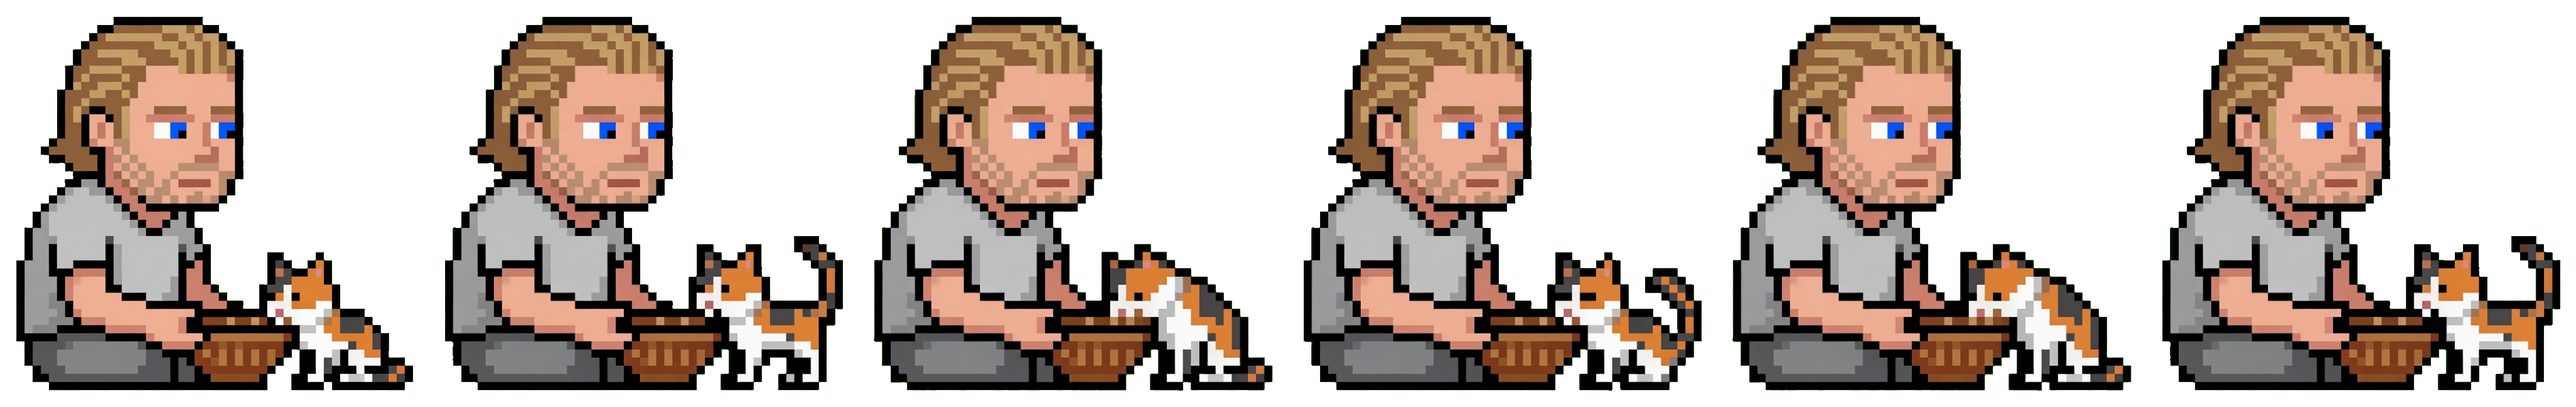
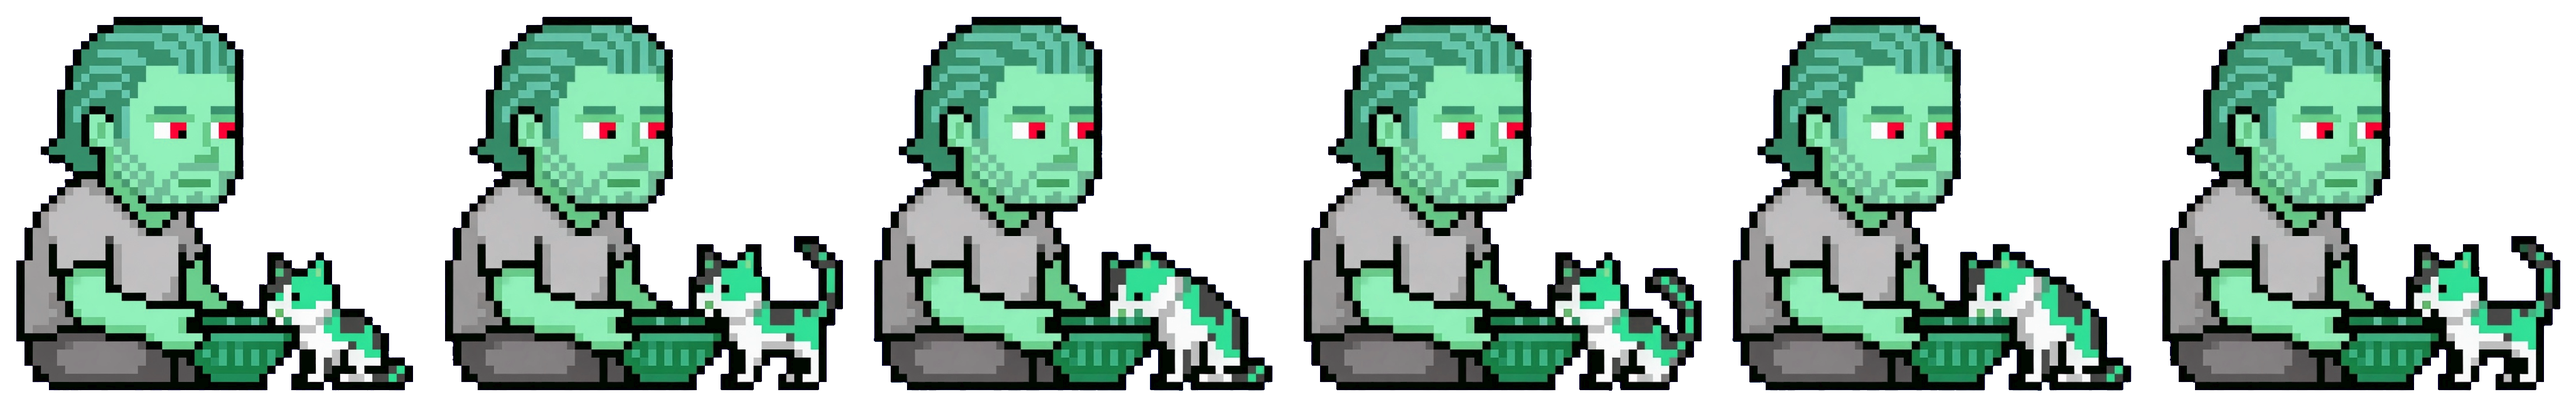
Shift the 1980s theme from red phosphor to Apple II green.
Recolor CRT tokens, scanlines, and pixel plates so 1980s reads as a P1 monitor instead of the old red tube.

diff --git a/app/styles/ancient-retro.css b/app/styles/ancient-retro.css
@@ -41,7 +41,9 @@
 }
 
 :root[data-era="1980s"] h1 {
-  text-shadow: 2px 2px 0 #2a0810;
+  text-shadow:
+    0 0 8px rgba(57, 255, 20, 0.45),
+    2px 2px 0 #031403;
 }
 
 :root[data-era="1980s"] header:not(.resumeHeader) a {
@@ -69,8 +71,8 @@
 
 :root[data-era="1980s"] .circuit-bg {
   background-image:
-    linear-gradient(rgba(255, 34, 68, 0.1) 1px, transparent 1px),
-    linear-gradient(90deg, rgba(255, 34, 68, 0.1) 1px, transparent 1px);
+    linear-gradient(rgba(57, 255, 20, 0.1) 1px, transparent 1px),
+    linear-gradient(90deg, rgba(57, 255, 20, 0.1) 1px, transparent 1px);
   background-size: 12px 12px;
 }
 
@@ -92,16 +94,80 @@
 
 :root[data-era="1980s"] a[class*="bg-primary"] {
   box-shadow:
-    3px 0 0 0 #5a0a18,
-    0 3px 0 0 #5a0a18,
-    3px 3px 0 0 #5a0a18;
+    3px 0 0 0 #0a5a18,
+    0 3px 0 0 #0a5a18,
+    3px 3px 0 0 #0a5a18;
 }
 
 :root[data-era="1980s"] a[class*="border"] {
   box-shadow:
-    2px 0 0 0 #3a2028,
-    0 2px 0 0 #3a2028,
-    2px 2px 0 0 #3a2028;
+    2px 0 0 0 #203a20,
+    0 2px 0 0 #203a20,
+    2px 2px 0 0 #203a20;
+}
+
+:root[data-era="1980s"] .hacf-scanlines::before {
+  background: repeating-linear-gradient(
+    0deg,
+    transparent 0px,
+    transparent 4px,
+    rgba(57, 255, 20, 0.015) 4px,
+    rgba(57, 255, 20, 0.015) 8px
+  );
+}
+
+:root[data-era="1980s"] .hacf-streak::before {
+  background: linear-gradient(
+    90deg,
+    transparent 0%,
+    rgba(57, 255, 20, 0.08) 15%,
+    rgba(57, 255, 20, 0.25) 50%,
+    rgba(57, 255, 20, 0.08) 85%,
+    transparent 100%
+  );
+}
+
+:root[data-era="1980s"] .hacf-streak::after {
+  background: linear-gradient(
+    90deg,
+    transparent 0%,
+    rgba(57, 255, 20, 0.03) 20%,
+    rgba(57, 255, 20, 0.08) 50%,
+    rgba(57, 255, 20, 0.03) 80%,
+    transparent 100%
+  );
+}
+
+:root[data-era="1980s"] .hacf-flare::after {
+  background: radial-gradient(
+    ellipse at center,
+    rgba(57, 255, 20, 0.15) 0%,
+    rgba(57, 255, 20, 0.05) 50%,
+    transparent 80%
+  );
+}
+
+:root[data-era="1980s"] .hacf-sweep-line {
+  background: linear-gradient(
+    90deg,
+    transparent 0%,
+    rgba(57, 255, 20, 0.15) 20%,
+    rgba(156, 255, 74, 0.4) 50%,
+    rgba(57, 255, 20, 0.15) 80%,
+    transparent 100%
+  );
+  box-shadow: 0 0 20px rgba(57, 255, 20, 0.3), 0 0 40px rgba(57, 255, 20, 0.15);
+}
+
+:root[data-era="1980s"] .hacf-sweep-line-2 {
+  background: linear-gradient(
+    90deg,
+    transparent 0%,
+    rgba(57, 255, 20, 0.1) 30%,
+    rgba(57, 255, 20, 0.2) 50%,
+    rgba(57, 255, 20, 0.1) 70%,
+    transparent 100%
+  );
 }
 
 /* 1990s: pixel-art texture, beOS-like bevels, classic web color */

diff --git a/app/styles/era-scroll.css b/app/styles/era-scroll.css
@@ -105,18 +105,18 @@
   z-index: 2;
   opacity: 0.7;
   background-image:
-    radial-gradient(1px 1px at 12% 18%, #8a3844 50%, transparent 51%),
-    radial-gradient(1px 1px at 28% 9%, #5a2430 50%, transparent 51%),
-    radial-gradient(2px 2px at 47% 22%, #8a3844 50%, transparent 51%),
-    radial-gradient(1px 1px at 63% 14%, #5a2430 50%, transparent 51%),
-    radial-gradient(1px 1px at 81% 11%, #8a3844 50%, transparent 51%),
-    radial-gradient(2px 2px at 91% 27%, #5a2430 50%, transparent 51%),
-    radial-gradient(1px 1px at 8% 36%, #8a3844 50%, transparent 51%),
-    radial-gradient(1px 1px at 72% 31%, #5a2430 50%, transparent 51%),
-    radial-gradient(1px 1px at 36% 8%, #8a3844 50%, transparent 51%),
-    radial-gradient(2px 2px at 54% 16%, #5a2430 50%, transparent 51%),
-    radial-gradient(1px 1px at 16% 28%, #6a3038 50%, transparent 51%),
-    radial-gradient(1px 1px at 88% 8%, #8a3844 50%, transparent 51%);
+    radial-gradient(1px 1px at 12% 18%, #388a44 50%, transparent 51%),
+    radial-gradient(1px 1px at 28% 9%, #245a30 50%, transparent 51%),
+    radial-gradient(2px 2px at 47% 22%, #388a44 50%, transparent 51%),
+    radial-gradient(1px 1px at 63% 14%, #245a30 50%, transparent 51%),
+    radial-gradient(1px 1px at 81% 11%, #388a44 50%, transparent 51%),
+    radial-gradient(2px 2px at 91% 27%, #245a30 50%, transparent 51%),
+    radial-gradient(1px 1px at 8% 36%, #388a44 50%, transparent 51%),
+    radial-gradient(1px 1px at 72% 31%, #245a30 50%, transparent 51%),
+    radial-gradient(1px 1px at 36% 8%, #388a44 50%, transparent 51%),
+    radial-gradient(2px 2px at 54% 16%, #245a30 50%, transparent 51%),
+    radial-gradient(1px 1px at 16% 28%, #306a38 50%, transparent 51%),
+    radial-gradient(1px 1px at 88% 8%, #388a44 50%, transparent 51%);
   image-rendering: pixelated;
 }
 

diff --git a/app/styles/hero-plates.css b/app/styles/hero-plates.css
@@ -24,7 +24,7 @@
 }
 
 :root[data-era="1980s"] .hero-backdrop-photo {
-  background-image: url("/hero/hero-1980s-hill.svg?v=crt2");
+  background-image: url("/hero/hero-1980s-hill.svg?v=a2g1");
   background-position: 50% 78%;
   transform: scale(1.42);
   transform-origin: 50% 82%;
@@ -39,7 +39,7 @@
 
 @media (min-width: 768px) {
   :root[data-era="1980s"] .hero-backdrop-photo {
-    background-image: url("/hero/hero-1980s-hill-wide.svg?v=crt2");
+    background-image: url("/hero/hero-1980s-hill-wide.svg?v=a2g1");
     background-position: 58% 70%;
     transform: scale(1.28);
     transform-origin: 62% 74%;
@@ -63,7 +63,7 @@
 }
 
 :root[data-era="1980s"] .hero-backdrop::before {
-  background: linear-gradient(to bottom, rgba(10, 6, 8, 0.92), transparent);
+  background: linear-gradient(to bottom, rgba(3, 20, 3, 0.92), transparent);
 }
 
 :root[data-era="1990s"] .hero-backdrop::before {
@@ -95,7 +95,7 @@
 }
 
 :root[data-era="1980s"] .hero-section::before {
-  background: linear-gradient(90deg, rgba(10, 6, 8, 0.66) 0%, rgba(10, 6, 8, 0.2) 30%, transparent 56%);
+  background: linear-gradient(90deg, rgba(3, 20, 3, 0.66) 0%, rgba(3, 20, 3, 0.2) 30%, transparent 56%);
 }
 
 :root[data-era="1990s"] .hero-section::before {
@@ -118,22 +118,16 @@
 }
 
 :root[data-era="1980s"] .hero-section {
-  background: #080204;
+  background: #031403;
 }
 
 :root[data-era="1980s"] .hero-backdrop-photo {
-  filter:
-    grayscale(1)
-    contrast(1.15)
-    brightness(0.72)
-    sepia(0.45)
-    hue-rotate(-18deg)
-    saturate(0.55);
+  filter: none;
 }
 
 :root[data-era="1980s"] .hero-art-1980s {
   image-rendering: pixelated;
-  filter: drop-shadow(1px 1px 0 #140608);
+  filter: drop-shadow(1px 1px 0 #061408);
 }
 
 :root[data-era="1990s"] .hero-art-1990s {

diff --git a/app/styles/base.css b/app/styles/base.css
@@ -91,6 +91,48 @@
   --neon-magenta: #ff0066;
 }
 
+:root[data-era="1980s"] {
+  --radius: 0;
+  --background: #031403;
+  --foreground: #c8f5a0;
+  --card: #071a07;
+  --card-foreground: #c8f5a0;
+  --popover: #071a07;
+  --popover-foreground: #c8f5a0;
+  --primary: #39ff14;
+  --primary-foreground: #031403;
+  --secondary: #0c220c;
+  --secondary-foreground: #c8f5a0;
+  --muted: #0a1a0a;
+  --muted-foreground: #7aaa68;
+  --accent: #9cff4a;
+  --accent-foreground: #031403;
+  --destructive: #33cc33;
+  --destructive-foreground: #031403;
+  --border: #1a4a1a;
+  --input: #0c220c;
+  --ring: #39ff14;
+  --chart-1: #39ff14;
+  --chart-2: #9cff4a;
+  --chart-3: #7cff7c;
+  --chart-4: #1a8a1a;
+  --chart-5: #5cff3a;
+  --sidebar: #051605;
+  --sidebar-foreground: #c8f5a0;
+  --sidebar-primary: #39ff14;
+  --sidebar-primary-foreground: #031403;
+  --sidebar-accent: #0c220c;
+  --sidebar-accent-foreground: #c8f5a0;
+  --sidebar-border: #1a4a1a;
+  --sidebar-ring: #39ff14;
+  --circuit: #39ff14;
+  --glow: #9cff4a;
+  --neon: #5cff3a;
+  --neon-green: #39ff14;
+  --neon-cyan: #7cff7c;
+  --neon-magenta: #9cff4a;
+}
+
 :root[data-era="1990s"] {
   --radius: 0;
   --background: #d8d4cc;

diff --git a/components/hero-section.tsx b/components/hero-section.tsx
@@ -3,7 +3,7 @@ import { HeroBackdrop } from "@/components/hero-backdrop";
 import { HeroCtas } from "@/components/hero-ctas";
 
 const HERO_ART = [
-  { era: "1980s", still: "/hero/hero-1980s.svg?v=gap3", live: "/hero/hero-1980s-live.png?v=era1", cat: "/hero/hero-1980s-cat.svg?v=gap3", width: 340, height: 268 },
+  { era: "1980s", still: "/hero/hero-1980s.svg?v=a2g1", live: "/hero/hero-1980s-live.png?v=a2g1", cat: "/hero/hero-1980s-cat.svg?v=a2g1", width: 340, height: 268 },
   { era: "1990s", still: "/hero/hero-1990s.svg?v=cc3", live: "/hero/hero-1990s-live.png?v=era1", cat: "/hero/hero-1990s-cat.svg?v=cc3", width: 320, height: 280 },
   { era: "modern", still: "/hero/hero-modern-d.svg?v=kneel0906", live: "/hero/hero-modern-d-live.png?v=kneel0906", cat: "/hero/hero-modern-d-cat.svg?v=kneel0906", width: 600, height: 560 },
 ] as const;

diff --git a/app/styles/hero-era-art.css b/app/styles/hero-era-art.css
@@ -1,7 +1,7 @@
 /* Overrides so new era plates win without rewriting hero-plates.css. */
 
 :root[data-era="1980s"] .hero-backdrop-photo {
-  background-image: url("/hero/hero-1980s-hill.svg?v=phos2") !important;
+  background-image: url("/hero/hero-1980s-hill.svg?v=a2g1") !important;
   filter: none !important;
   image-rendering: pixelated !important;
 }
@@ -21,7 +21,7 @@
 
 @media (min-width: 768px) {
   :root[data-era="1980s"] .hero-backdrop-photo {
-    background-image: url("/hero/hero-1980s-hill-wide.svg?v=phos2") !important;
+    background-image: url("/hero/hero-1980s-hill-wide.svg?v=a2g1") !important;
   }
 
   :root[data-era="1990s"] .hero-backdrop-photo {

diff --git a/components/theme-switcher.tsx b/components/theme-switcher.tsx
@@ -12,7 +12,7 @@ const ERA_LABELS: Record<(typeof THEMES)[number], string> = {
 };
 
 const ERA_NOTES: Record<(typeof THEMES)[number], string> = {
-  "1980s": "Red-phosphor CRT. Four values, scanlines, no full-color landscape.",
+  "1980s": "Green-phosphor CRT. Apple II scanlines, four values, no full-color landscape.",
   "1990s": "Beige, bevels, and a font that refuses to antialias.",
   modern: "A glade at dusk for fun, then quieter SaaS glass below.",
 };

diff --git a/README.md b/README.md
@@ -14,7 +14,7 @@ Personal site for Jeremy Collins, focused on product engineering, independent so
 ## Functionality
 
 - Home page with hero, about, project, and footer sections.
-- Theme switcher for `1980s` (red-phosphor CRT), `Retro` (1990s), and `Modern` visual treatments.
+- Theme switcher for `1980s` (green-phosphor CRT), `Retro` (1990s), and `Modern` visual treatments.
 - Codable project screenshots with expandable lightbox behavior.
 - Codable privacy policy page.
 - Taktung privacy policy page.
